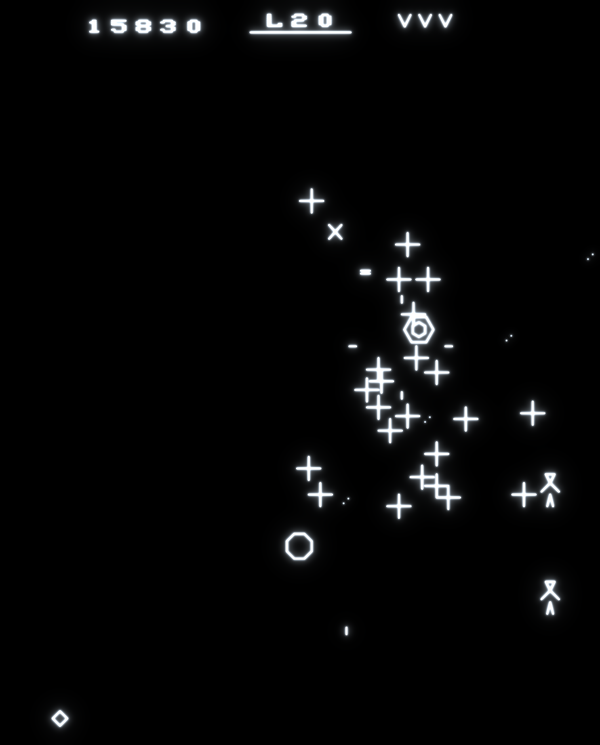
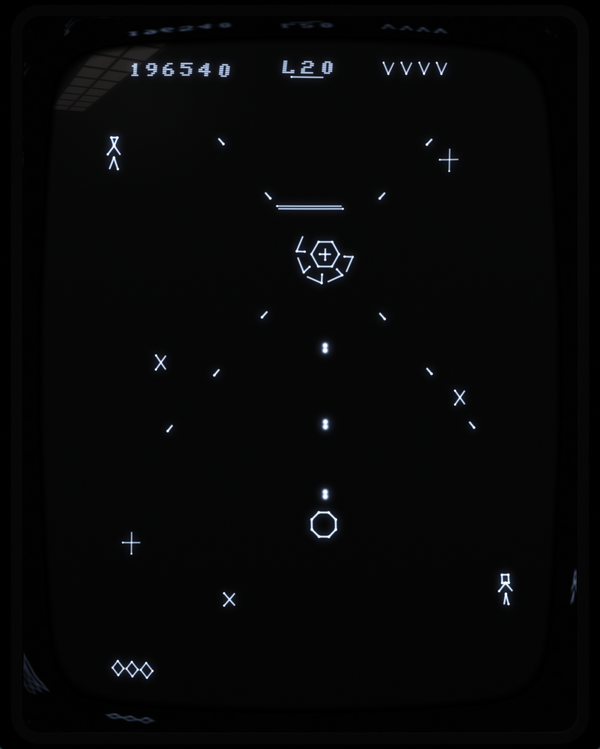
Screenshots: two played GIFs (the Overseer, the Guardian with the overlay), 8 staged scenes with and without the overlay in daylight and evening light, a new gameplay grid; screenshots moved above the robot cards; the final overlay

diff --git a/README.md b/README.md
@@ -16,6 +16,40 @@ into a full campaign built around what the Vectrex does best: sharp, bright vect
 own behaviour, every act changes the rules, and the difficulty is something you choose, not something that just
 happens to you.
 
+## Screenshots
+
+<p align="center">
+<img src="img/gif/overseer.gif" width="380" alt="The fighter dodges and fires at the Overseer as it drifts across the arena laying mines">
+<img src="img/gif/guardian.gif" width="380" alt="With the overlay: the fighter circles the Guardian, breaking off its armour plates while crosses swarm in"><br>
+<sub>Played live: the Overseer on the bare tube, and the Guardian with the overlay, both in evening light.</sub>
+</p>
+
+**With the overlay**
+
+| | |
+|:-:|:-:|
+| <img src="img/promo/harvest_overlay_day.png" width="400"><br><sub>Daylight · Level 15: crosses and Hulks close in, a Brain fires a cruise missile</sub> | <img src="img/promo/overseer_overlay_day.png" width="400"><br><sub>Daylight · Level 37: inside the Overseer's spark ring</sub> |
+| <img src="img/promo/factory_overlay_evening.png" width="400"><br><sub>Evening · Level 25: a Quark builds Tanks, Killers fire homing arrows</sub> | <img src="img/promo/overseer_overlay_evening.png" width="400"><br><sub>Evening · the Overseer's homing missiles curve after you</sub> |
+
+**The bare tube**
+
+| | |
+|:-:|:-:|
+| <img src="img/promo/bowties_glass_day.png" width="400"><br><sub>Daylight · Level 13: bowties fire double-dot bullets</sub> | <img src="img/promo/snipers_glass_day.png" width="400"><br><sub>Daylight · Arena 2: a Sniper locks on, laser fences, a centipede</sub> |
+| <img src="img/promo/bomb_glass_evening.png" width="400"><br><sub>Evening · Level 27: a bomb's shock wave sweeps the arena</sub> | <img src="img/promo/core_glass_evening.png" width="400"><br><sub>Evening · Arena 2: Orbiters circle the ship, a Splitter bursts</sub> |
+
+**More of the game**
+
+| | | | |
+|:-:|:-:|:-:|:-:|
+| <img src="img/snaps/title.png" width="190"><br><sub>The title</sub> | <img src="img/snaps/level_intro.png" width="190"><br><sub>Robots caged before the countdown</sub> | <img src="img/snaps/guardian.png" width="190"><br><sub>Level 20: the Guardian</sub> | <img src="img/snaps/quarks.png" width="190"><br><sub>Act III: Quarks build Tanks</sub> |
+| <img src="img/snaps/swarm.png" width="190"><br><sub>A swarm ring closing in</sub> | <img src="img/snaps/last_stand.png" width="190"><br><sub>Act IV: everything at once</sub> | <img src="img/snaps/hydra.png" width="190"><br><sub>Arena 2: the Hydra</sub> | <img src="img/snaps/architect.png" width="190"><br><sub>The Architect builds a fence</sub> |
+
+<sub>All on the Vectrex_EMU emulator with the Robot Arena overlay. The GIFs are real play by the game's balancing bot.
+The stills are staged: test cartridges freeze a composed moment, drawn by the game's own code.</sub>
+
+---
+
 ## The robots
 
 **Arena 1**
@@ -35,7 +69,7 @@ happens to you.
 
 ## Contents
 
-[The robots](#the-robots) · [Features](#features) · [Gameplay](#gameplay) · [Screenshots](#screenshots) · [The cast](#the-cast) ·
+[Screenshots](#screenshots) · [The robots](#the-robots) · [Features](#features) · [Gameplay](#gameplay) · [The cast](#the-cast) ·
 [The bosses](#the-bosses) · [How the robots think](#how-the-robots-think) · [Under the hood](#under-the-hood) ·
 [Overlay artwork](overlay/README.md)
 
@@ -108,18 +142,6 @@ Architect.
 
 Finish Arena 1 on HARD to become **KING OF THE ARENA**, and Arena 2 on HARD for **KING OF THE GALAXY**. Finish on EASY
 or MEDIUM and the game offers to raise the difficulty for the next run.
-
----
-
-## Screenshots
-
-| | | |
-|:-:|:-:|:-:|
-| <img src="img/snaps/title.png" width="250"><br><sub>Title</sub> | <img src="img/snaps/title_roster.png" width="250"><br><sub>The roster</sub> | <img src="img/snaps/level_intro.png" width="250"><br><sub>Robots caged before the countdown</sub> |
-| <img src="img/snaps/crosses_hulks.png" width="250"><br><sub>Crosses and Hulks</sub> | <img src="img/snaps/swarm.png" width="250"><br><sub>A swarm ring closing in</sub> | <img src="img/snaps/brains.png" width="250"><br><sub>Act II: brains and killers</sub> |
-| <img src="img/snaps/guardian.png" width="250"><br><sub>Level 20: the Guardian</sub> | <img src="img/snaps/factory.png" width="250"><br><sub>Act III: the factory</sub> | <img src="img/snaps/late_mix.png" width="250"><br><sub>Act IV: everything at once</sub> |
-| <img src="img/snaps/overseer.png" width="250"><br><sub>Level 37: the Overseer</sub> | <img src="img/snaps/arena2_intro.png" width="250"><br><sub>Arena 2</sub> | <img src="img/snaps/laser_fence.png" width="250"><br><sub>Laser fences</sub> |
-| <img src="img/snaps/centipedes.png" width="250"><br><sub>Centipedes</sub> | <img src="img/snaps/hydra.png" width="250"><br><sub>The Hydra</sub> | <img src="img/snaps/architect.png" width="250"><br><sub>The Architect building a fence</sub> |
 
 ---
 

diff --git a/overlay/README.md b/overlay/README.md
@@ -22,7 +22,7 @@ exact layout of the Robot Arena overlay, so new artwork can be painted for it. T
 | [mask_4x.png](mask_4x.png) | White = printed artwork, black = see-through. |
 | [finish.py](finish.py) | `python finish.py ART.png [OUT.png]` crops and scales finished artwork to the sheet, cuts the window and the boxes exactly, and puts the coloured filters back. |
 | [make_template.py](make_template.py), [layout5.json](layout5.json) | How the template is made: the tube outline and the HUD boxes, measured from the game running on the emulator. |
-| [current_overlay.png](current_overlay.png) | The overlay in use now: a simple placeholder frame. |
+| [current_overlay.png](current_overlay.png) | **The final overlay** (1109 x 1418 px): the arena city at night, the ROBOT ARENA logo, the five HUD boxes. |
 
 ## Brief
 
